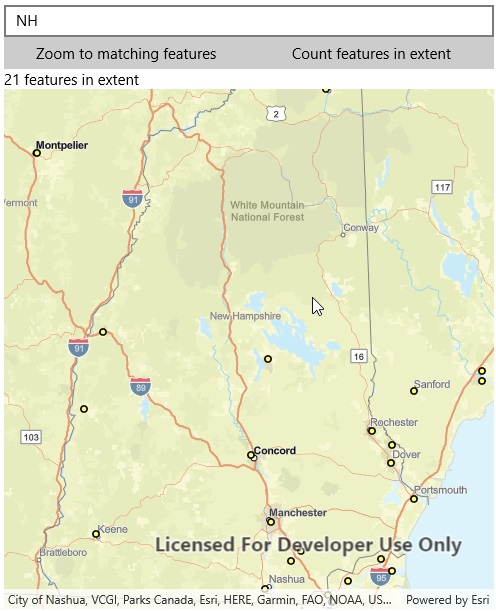
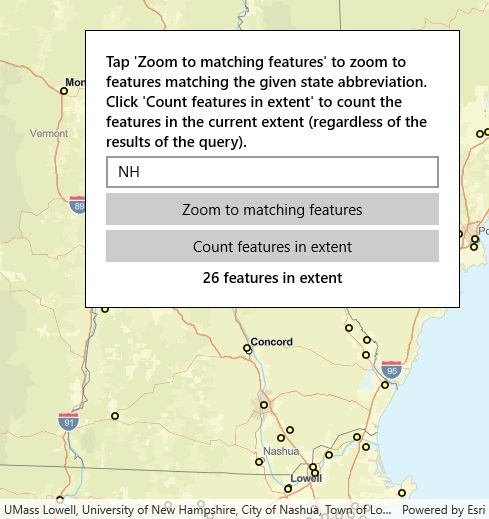
Query feature count and extent
Improvements:

* Moved controls to a form.
* Reformatted XAML.
* Added help label.
* Renamed controls to follow guidelines.

diff --git a/src/UWP/ArcGISRuntime.UWP.Viewer/Samples/Analysis/QueryFeatureCountAndExtent/QueryFeatureCountAndExtent.xaml b/src/UWP/ArcGISRuntime.UWP.Viewer/Samples/Analysis/QueryFeatureCountAndExtent/QueryFeatureCountAndExtent.xaml
@@ -2,26 +2,43 @@
     x:Class="ArcGISRuntime.UWP.Samples.QueryFeatureCountAndExtent.QueryFeatureCountAndExtent"
     xmlns="http://schemas.microsoft.com/winfx/2006/xaml/presentation"
     xmlns:x="http://schemas.microsoft.com/winfx/2006/xaml"
-    xmlns:mc="http://schemas.openxmlformats.org/markup-compatibility/2006"
-    xmlns:d="http://schemas.microsoft.com/expression/blend/2008"
-    xmlns:esriUI="using:Esri.ArcGISRuntime.UI.Controls"
-    mc:Ignorable="d"
-    d:DesignHeight="300" d:DesignWidth="300">
+    xmlns:esriUI="using:Esri.ArcGISRuntime.UI.Controls">
     <Grid>
-        <Grid.RowDefinitions>
-            <RowDefinition Height="auto" />
-            <RowDefinition Height="auto" />
-            <RowDefinition Height="auto" />
-            <RowDefinition Height="*" />
-        </Grid.RowDefinitions>
-        <Grid.ColumnDefinitions>
-            <ColumnDefinition Width="*" />
-            <ColumnDefinition Width="*" />
-        </Grid.ColumnDefinitions>
-        <TextBox Grid.Row="0" Grid.ColumnSpan="2" PlaceholderText="e.g. NY" x:Name="txtStateEntry" />
-        <Button Content="Zoom to matching features" Grid.Row="1" Grid.Column="0" Click="BtnZoomToFeaturesClick" HorizontalAlignment="Stretch" />
-        <Button Content="Count features in extent" Grid.Row="1" Grid.Column="1" Click="BtnCountFeaturesClick" HorizontalAlignment="Stretch" />
-        <TextBlock Grid.Row="2" Grid.ColumnSpan="2" x:Name="txtResults" />
-        <esriUI:MapView x:Name="MyMapView" Grid.Row="3" Grid.ColumnSpan="2" />
+        <esriUI:MapView x:Name="MyMapView" />
+        <Border BorderBrush="Black" BorderThickness="1" Background="White"
+                HorizontalAlignment="Right" VerticalAlignment="Top"
+                Margin="30" Padding="20" Width="375">
+            <Grid>
+                <Grid.RowDefinitions>
+                <RowDefinition Height="Auto" />
+                    <RowDefinition Height="auto" />
+                    <RowDefinition Height="auto" />
+                    <RowDefinition Height="auto" />
+                    <RowDefinition Height="Auto" />
+                    <RowDefinition Height="Auto" />
+                </Grid.RowDefinitions>
+                <TextBlock Text="Tap 'Zoom to matching features' to zoom to features matching the given state abbreviation. Click 'Count features in extent' to count the features in the current extent (regardless of the results of the query)."
+                           Grid.Row="0"
+                           FontWeight="SemiBold" TextWrapping="Wrap"
+                           />
+                <TextBox x:Name="StateEntry"
+                         Grid.Row="1"
+                         Margin="0,5,0,5"
+                         PlaceholderText="e.g. NY" />
+                <Button Content="Zoom to matching features"
+                        Grid.Row="2"
+                        HorizontalAlignment="Stretch"
+                        Click="BtnZoomToFeaturesClick" />
+                <Button Content="Count features in extent"
+                        Grid.Row="3"
+                        Margin="0,5,0,5"
+                        HorizontalAlignment="Stretch"
+                        Click="BtnCountFeaturesClick" />
+                <TextBlock x:Name="ResultView"
+                           Grid.Row="4"
+                           Visibility="Collapsed"
+                           FontWeight="SemiBold" TextAlignment="Center" />
+            </Grid>
+        </Border>
     </Grid>
 </UserControl>

diff --git a/src/UWP/ArcGISRuntime.UWP.Viewer/Samples/Analysis/QueryFeatureCountAndExtent/QueryFeatureCountAndExtent.xaml.cs b/src/UWP/ArcGISRuntime.UWP.Viewer/Samples/Analysis/QueryFeatureCountAndExtent/QueryFeatureCountAndExtent.xaml.cs
@@ -11,6 +11,7 @@ using Esri.ArcGISRuntime.Data;
 using Esri.ArcGISRuntime.Geometry;
 using Esri.ArcGISRuntime.Mapping;
 using System;
+using Windows.UI.Xaml;
 
 namespace ArcGISRuntime.UWP.Samples.QueryFeatureCountAndExtent
 {
@@ -62,7 +63,7 @@ namespace ArcGISRuntime.UWP.Samples.QueryFeatureCountAndExtent
         private async void BtnZoomToFeaturesClick(object sender, Windows.UI.Xaml.RoutedEventArgs e)
         {
             // Create the query parameters
-            QueryParameters queryStates = new QueryParameters() { WhereClause = $"upper(ST) LIKE '%{txtStateEntry.Text.ToUpper()}%'" };
+            QueryParameters queryStates = new QueryParameters() { WhereClause = $"upper(ST) LIKE '%{StateEntry.Text.ToUpper()}%'" };
 
             // Get the extent from the query
             Envelope resultExtent = await _myFeatureTable.QueryExtentAsync(queryStates);
@@ -80,7 +81,8 @@ namespace ArcGISRuntime.UWP.Samples.QueryFeatureCountAndExtent
             await MyMapView.SetViewpointAsync(resultViewpoint);
 
             // Update the UI
-            txtResults.Text = $"Zoomed to features in {txtStateEntry.Text}";
+            ResultView.Text = $"Zoomed to features in {StateEntry.Text}";
+            ResultView.Visibility = Visibility.Visible;
         }
 
         private async void BtnCountFeaturesClick(object sender, Windows.UI.Xaml.RoutedEventArgs e)
@@ -98,7 +100,8 @@ namespace ArcGISRuntime.UWP.Samples.QueryFeatureCountAndExtent
             long count = await _myFeatureTable.QueryFeatureCountAsync(queryCityCount);
 
             // Update the UI
-            txtResults.Text = $"{count} features in extent";
+            ResultView.Text = $"{count} features in extent";
+            ResultView.Visibility = Visibility.Visible;
         }
     }
 }
